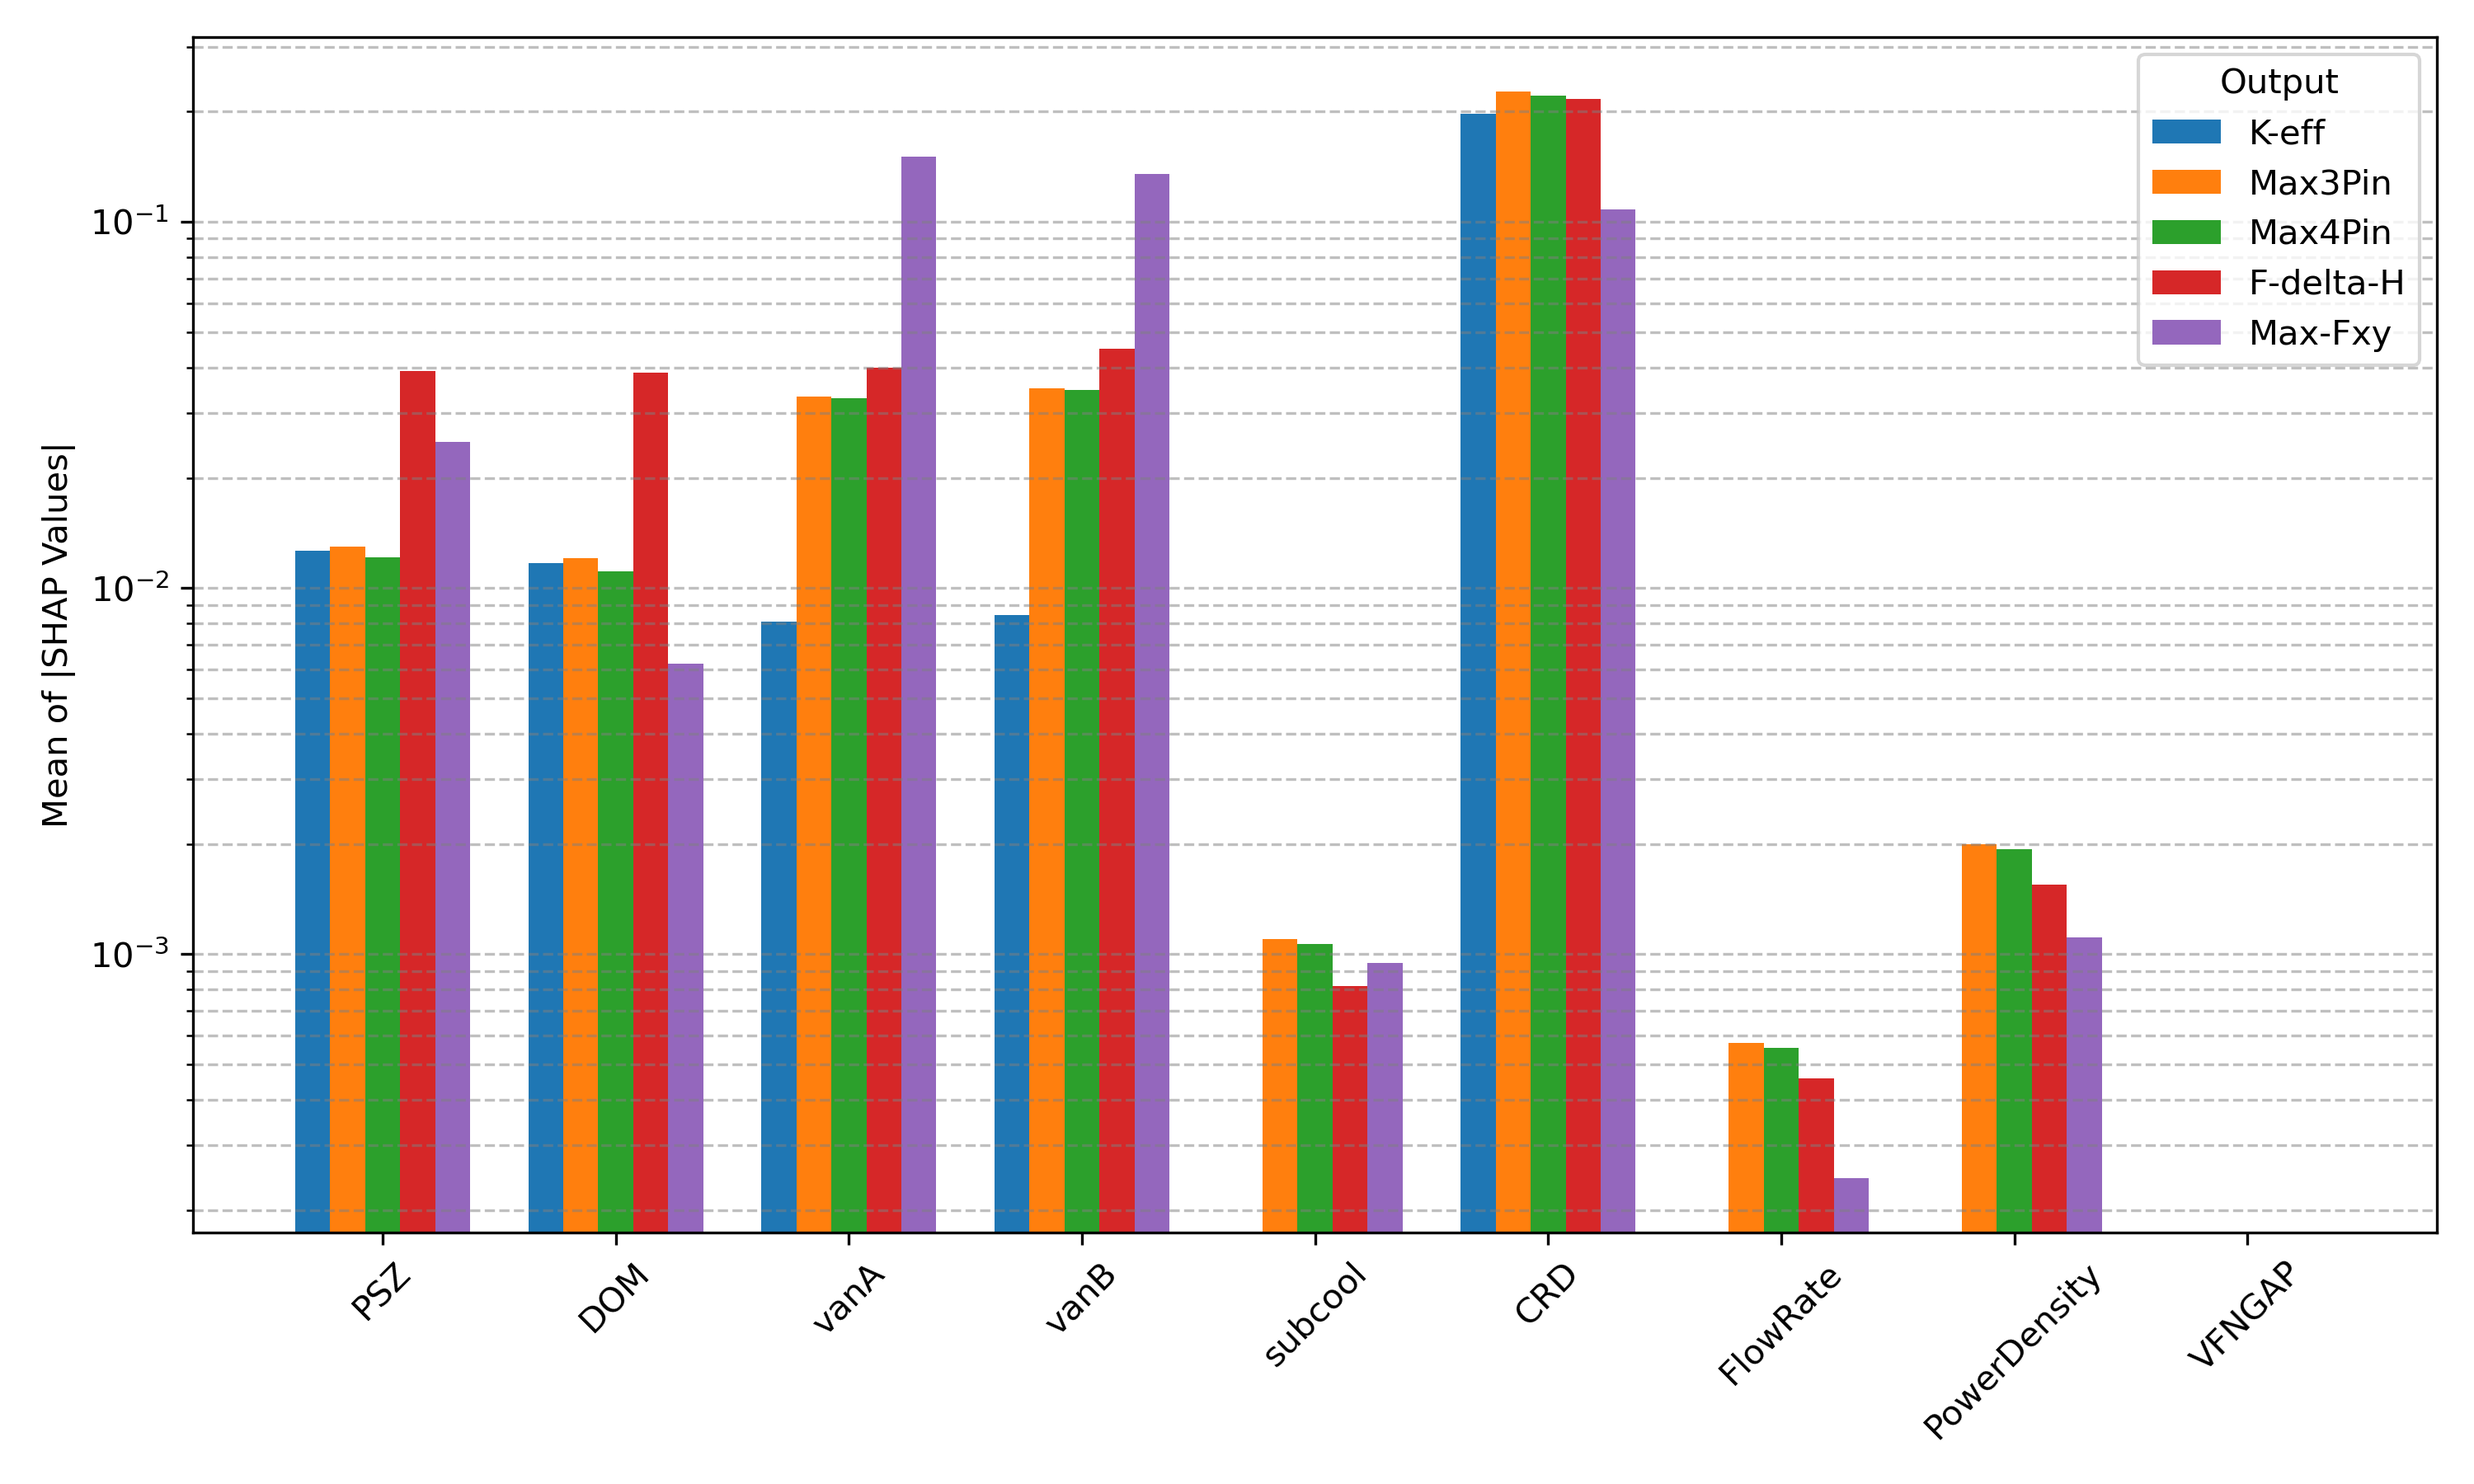
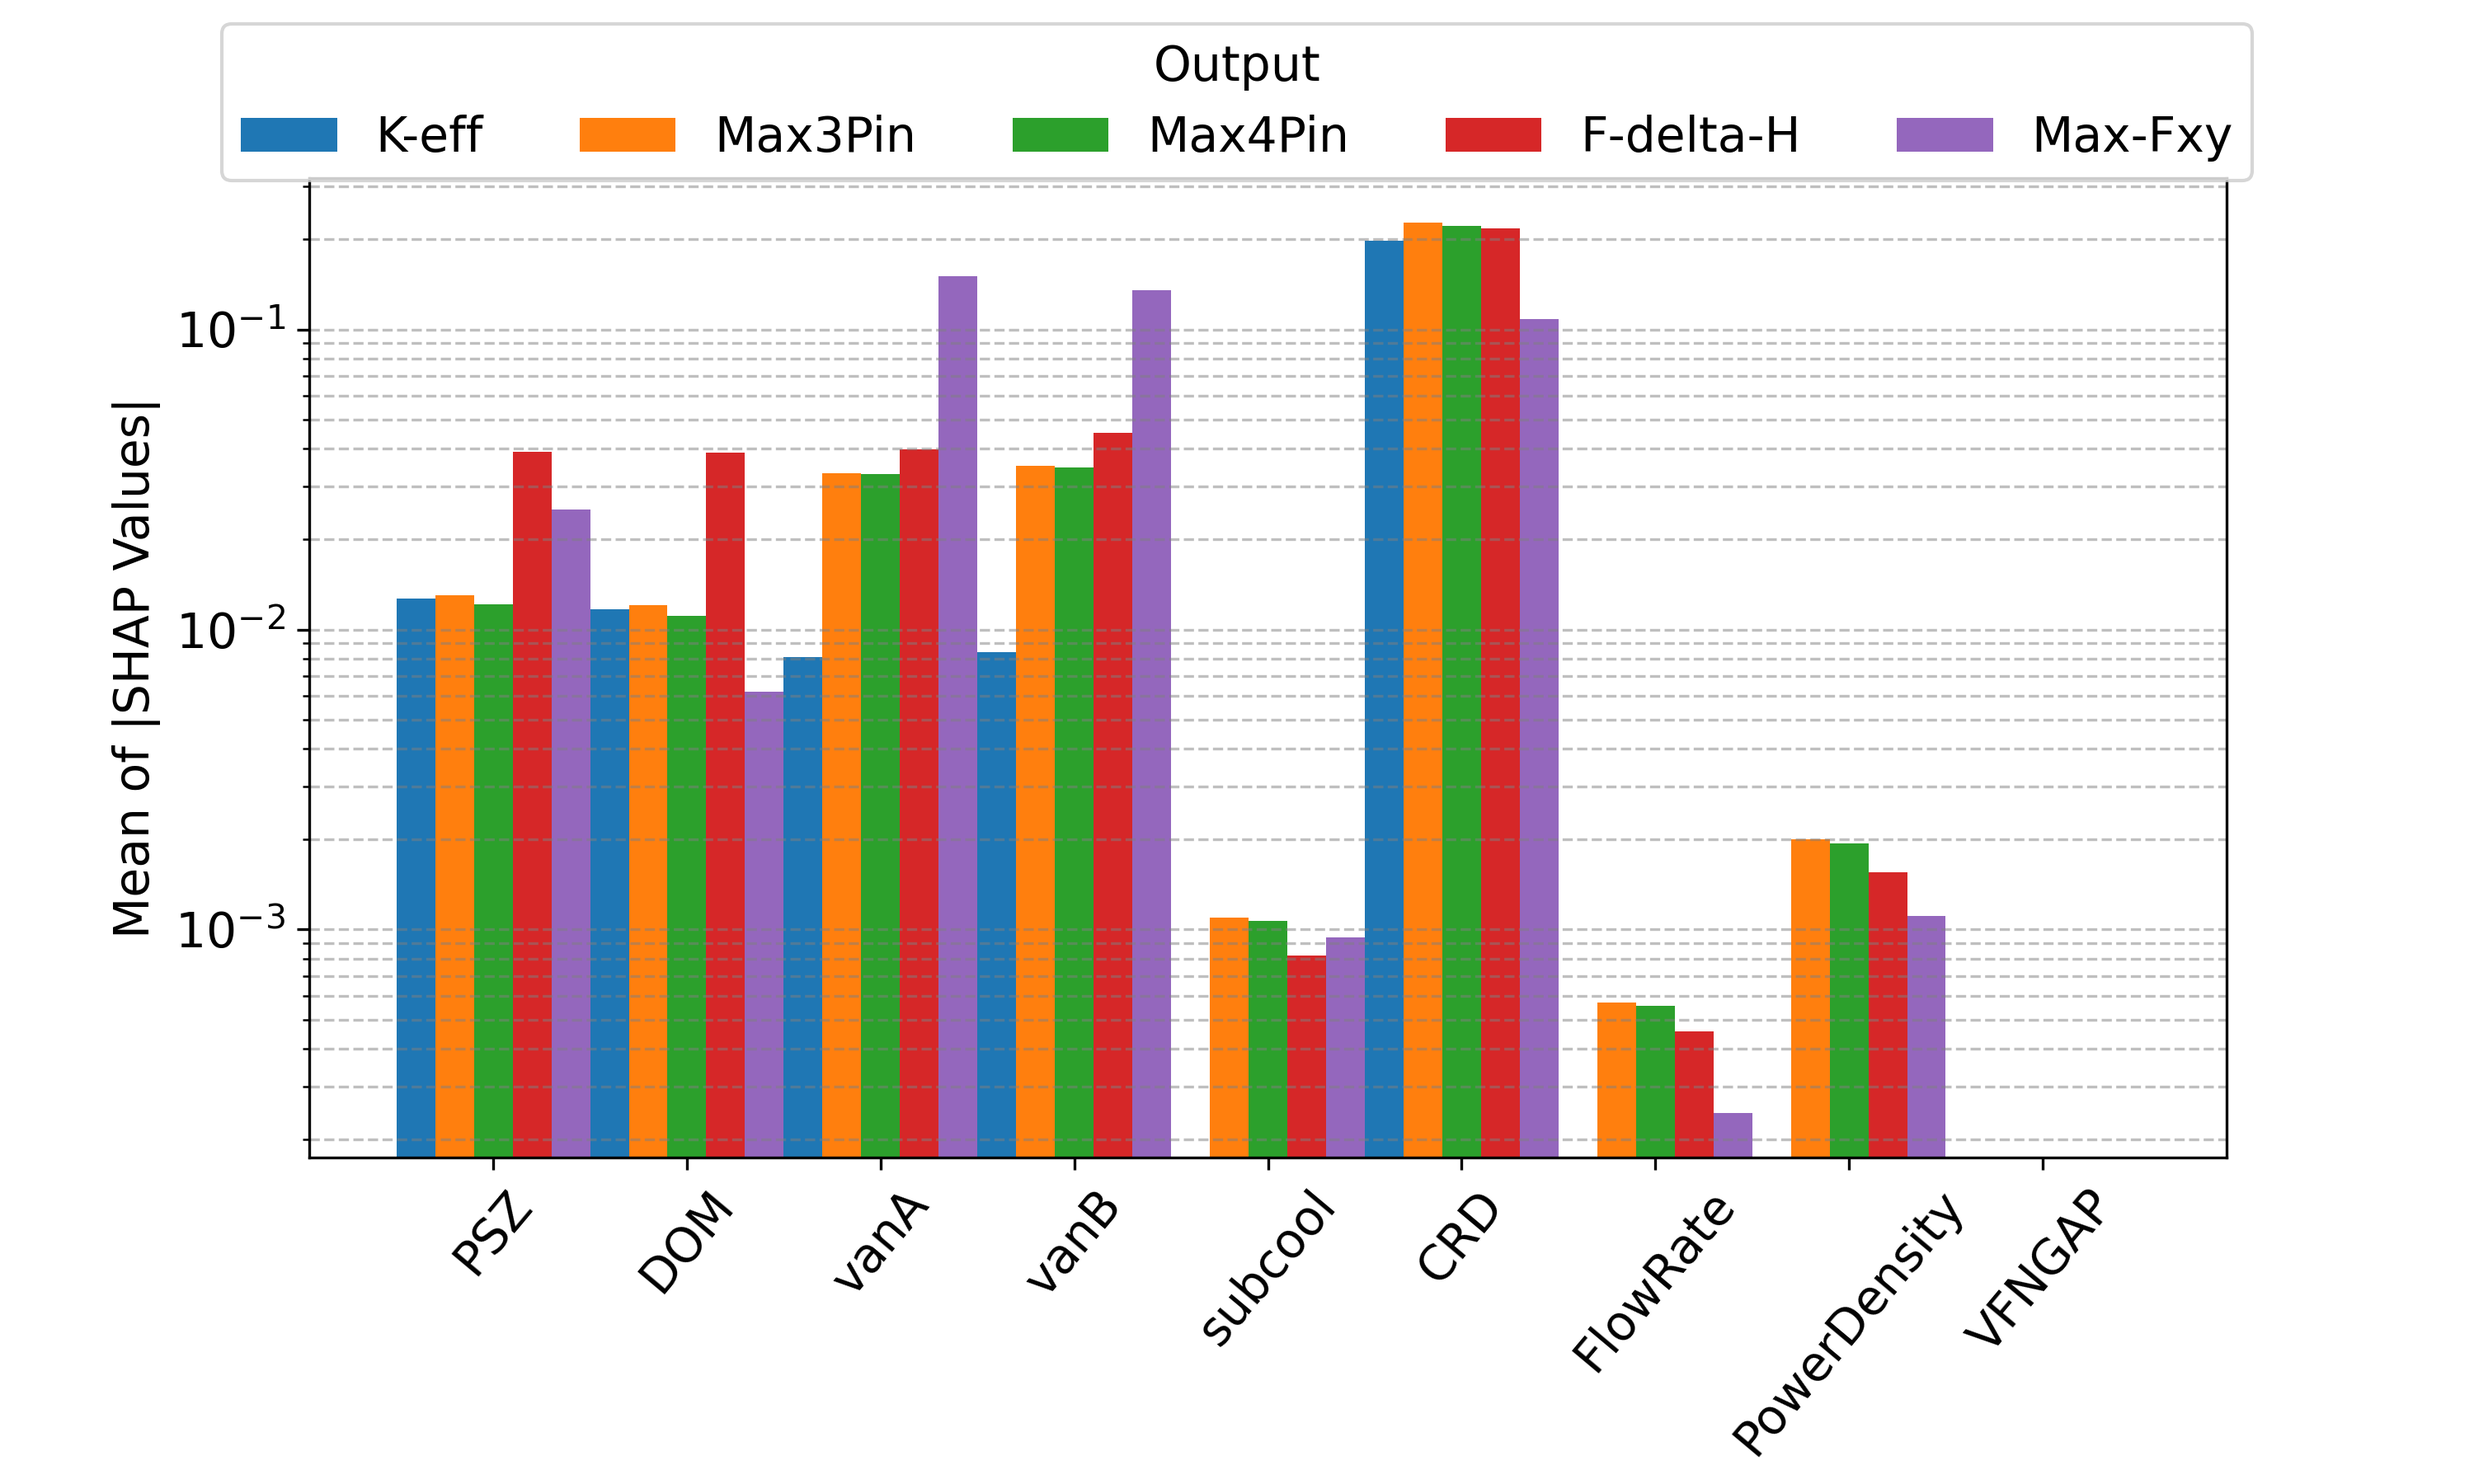
font increased plots

diff --git a/explainability.py b/explainability.py
@@ -120,6 +120,7 @@ def plot_shap(path, save_as, type='kan', width=0.2):
     Returns:
         tuple: (fig, ax) matplotlib objects
     """
+    plt.rcParams.update({'font.size': 14})
     shap_mean = pd.read_pickle(path)
     fig, ax = plt.subplots(figsize=(10,6))
     x_positions = np.arange(len(shap_mean.index))
@@ -134,12 +135,13 @@ def plot_shap(path, save_as, type='kan', width=0.2):
         ax.bar(x_positions + i*width, shap_mean[col], capsize=4, width=width, label=label)
     ax.set_ylabel("Mean of |SHAP Values|")
     ax.set_yscale('log')
-    ax.legend(title='Output')
+    fig.legend(title='Output', loc='outside upper center', ncol=5)
     n = len(output_names)
     ax.grid(True, which='both', axis='y', linestyle='--', color='gray', alpha=0.5)
     ax.set_xticks(x_positions + (n-1)*width/2)
-    ax.set_xticklabels(input_names, rotation=45)
-    plt.tight_layout()
+    ax.set_xticklabels(input_names, rotation=50)
+    plt.subplots_adjust(bottom=0.24)
+    #plt.tight_layout()
     if not os.path.exists('figures/shap'):
         os.makedirs('figures/shap')
     plt.savefig(f'figures/shap/{save_as}.png', dpi=300)
@@ -172,7 +174,7 @@ def plot_stacked(kan_path, fnn_path, save_as, width=0.2):
         ax.bar(x_positions + i*width + width, fnn_shap_mean[col], capsize=4, width=width, label=label)
     ax.set_ylabel("Mean of |SHAP Values|")
     ax.set_yscale('log')
-    ax.legend(title='Output')
+    ax.legend(title='Output', ncols=len(output_names))
     n = len(output_names)
     ax.grid(True, which='both', axis='y', linestyle='--', color='gray', alpha=0.5)
     ax.set_xticks(x_positions + (n-1)*width/2)
@@ -199,16 +201,16 @@ if __name__=="__main__":
     }
 
     shap_path_dict = {
-        'fp': 'shap-values/FP_kan_2025-03-18.pkl', 
-        'bwr': 'shap-values/BWR_kan_2025-03-18.pkl', 
-        'heat': 'shap-values/HEAT_kan_2025-03-18.pkl', 
-        'htgr': 'shap-values/HTGR_kan_2025-03-18.pkl', 
-        'mitr_a': 'shap-values/MITR_A_kan_2025-03-18.pkl', 
-        'mitr_b': 'shap-values/MITR_B_kan_2025-03-18.pkl', 
-        'mitr_c': 'shap-values/MITR_C_kan_2025-03-18.pkl', 
-        'mitr': 'shap-values/MITR_kan_2025-03-18.pkl', 
-        'chf': 'shap-values/CHF_kan_2025-03-18.pkl', 
-        'rea': 'shap-values/REA_kan_2025-03-18.pkl', 
+        # 'fp': 'shap-values/FP_kan_2025-03-18.pkl', 
+        # 'bwr': 'shap-values/BWR_kan_2025-03-18.pkl', 
+        # 'heat': 'shap-values/HEAT_kan_2025-03-18.pkl', 
+        # 'htgr': 'shap-values/HTGR_kan_2025-03-18.pkl', 
+        # 'mitr_a': 'shap-values/MITR_A_kan_2025-03-18.pkl', 
+        # 'mitr_b': 'shap-values/MITR_B_kan_2025-03-18.pkl', 
+        # 'mitr_c': 'shap-values/MITR_C_kan_2025-03-18.pkl', 
+        # 'mitr': 'shap-values/MITR_kan_2025-03-18.pkl', 
+        # 'chf': 'shap-values/CHF_kan_2025-03-18.pkl', 
+        # 'rea': 'shap-values/REA_kan_2025-03-18.pkl', 
         'xs': 'shap-values/XS_kan_2025-03-18.pkl'
         }
 
@@ -216,13 +218,13 @@ if __name__=="__main__":
     # paths_dict = get_kan_shap(datasets_dict)
     # print(paths_dict)
 
-    ## uncomment to make shap kan plots
-    # for model, path in shap_path_dict.items():
-    #     plot_shap(path, save_as=f'{model}_kan', type='kan', width=0.15)
+    # uncomment to make shap kan plots
+    for model, path in shap_path_dict.items():
+        plot_shap(path, save_as=f'{model}_kan', type='kan', width=0.2)
 
     ## uncomment to print shap values
     # for model, path in shap_path_dict.items():
     #     print_shap(path, save_as=f'{model}', type='kan')
 
-    # make stacked plot for CHF and HEAT
-    plot_stacked(kan_path=shap_path_dict['heat'], fnn_path='shap-values/HEAT_fnn_2025-03-18.pkl', save_as='HEAT', width=0.2)
+    # # make stacked plot for CHF and HEAT
+    # plot_stacked(kan_path=shap_path_dict['heat'], fnn_path='shap-values/HEAT_fnn_2025-03-18.pkl', save_as='HEAT', width=0.2)

diff --git a/fnn.py b/fnn.py
@@ -323,29 +323,29 @@ if __name__=="__main__":
         'mitr_c': [partial(get_mitr, region='C'), 'models/MITR_C_2025-03-17.pt']
     }
     shap_path_dict = {
-        'chf': 'shap-values/CHF_fnn_2025-03-18.pkl', 
-        'bwr': 'shap-values/BWR_fnn_2025-03-18.pkl', 
-        'fp': 'shap-values/FP_fnn_2025-03-18.pkl', 
-        'heat': 'shap-values/HEAT_fnn_2025-03-18.pkl', 
-        'htgr': 'shap-values/HTGR_fnn_2025-03-18.pkl', 
-        'mitr': 'shap-values/MITR_fnn_2025-03-18.pkl', 
-        'rea': 'shap-values/REA_fnn_2025-03-18.pkl', 
+        # 'chf': 'shap-values/CHF_fnn_2025-03-18.pkl', 
+        # 'bwr': 'shap-values/BWR_fnn_2025-03-18.pkl', 
+        # 'fp': 'shap-values/FP_fnn_2025-03-18.pkl', 
+        # 'heat': 'shap-values/HEAT_fnn_2025-03-18.pkl', 
+        # 'htgr': 'shap-values/HTGR_fnn_2025-03-18.pkl', 
+        # 'mitr': 'shap-values/MITR_fnn_2025-03-18.pkl', 
+        # 'rea': 'shap-values/REA_fnn_2025-03-18.pkl', 
         'xs': 'shap-values/XS_fnn_2025-03-18.pkl', 
-        'mitr_a': 'shap-values/MITR_A_fnn_2025-03-18.pkl', 
-        'mitr_b': 'shap-values/MITR_B_fnn_2025-03-18.pkl', 
-        'mitr_c': 'shap-values/MITR_C_fnn_2025-03-18.pkl'
+        # 'mitr_a': 'shap-values/MITR_A_fnn_2025-03-18.pkl', 
+        # 'mitr_b': 'shap-values/MITR_B_fnn_2025-03-18.pkl', 
+        # 'mitr_c': 'shap-values/MITR_C_fnn_2025-03-18.pkl'
         }
 
-    # STEP 1: train FNN models and get metrics
-    get_fnn_models(pymaise_params)
+    # # STEP 1: train FNN models and get metrics
+    # get_fnn_models(pymaise_params)
 
     # # STEP 2: get shap values from FNN models, need model path dict from Step 1
     # shap_paths = get_fnn_shap(model_path_dict, pymaise_params, device)
     # print(shap_paths)
 
     # # STEP 3: plot shap values, need shap path dict from Step 2
-    # for model, path in shap_path_dict.items():
-    #     plot_shap(path, save_as=f'{model}_fnn', type='fnn', width=0.2)
+    for model, path in shap_path_dict.items():
+        plot_shap(path, save_as=f'{model}_fnn', type='fnn', width=0.2)
 
     # # STEP 4 (optional): print shap values and save to csv
     # for model, path in shap_path_dict.items():
